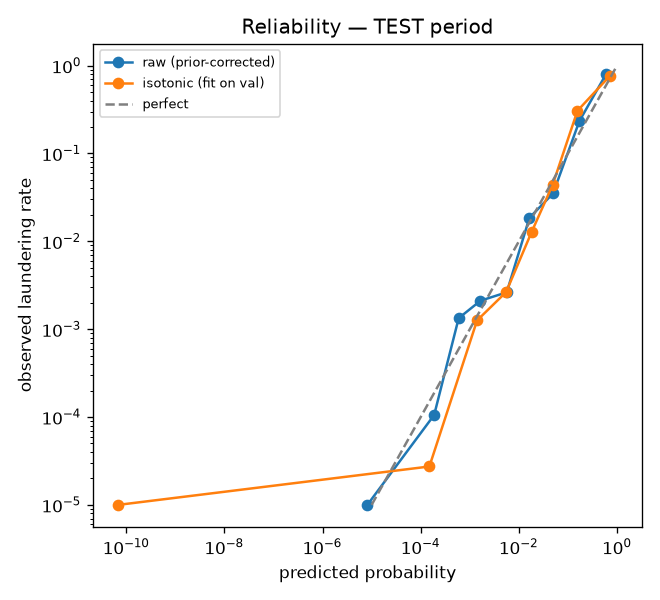
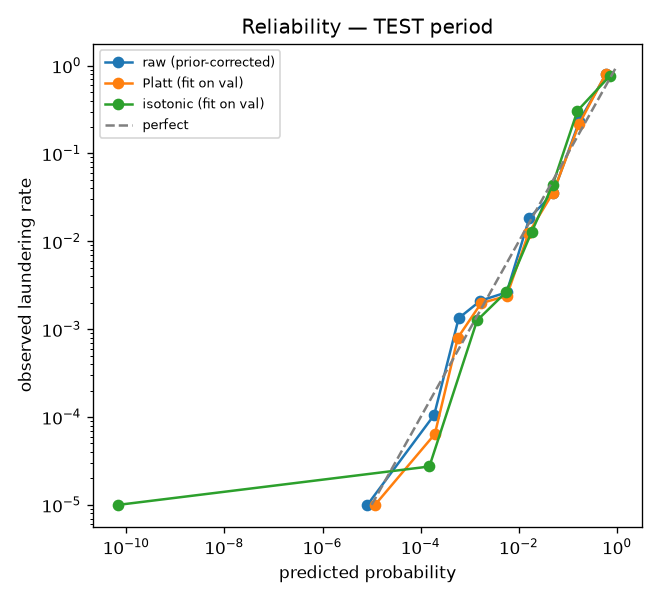
Step 7c: calibration comparison (raw vs Platt vs isotonic) with Brier, log-loss, ECE
Isotonic (fit on validation) is best on test: Brier 0.000683, ECE 0.000240
(raw 0.000700 / 0.000374, Platt 0.000704 / 0.000381). Platt slope 0.947 ->
raw model already close to calibrated. Report notes ECE's constant-predictor
pitfall. Other results unchanged.

diff --git a/src/aml/evaluate.py b/src/aml/evaluate.py
@@ -21,14 +21,15 @@ import pandas as pd
 import statsmodels.api as sm
 import xgboost as xgb
 from sklearn.isotonic import IsotonicRegression
-from sklearn.metrics import brier_score_loss, precision_recall_curve
+from sklearn.metrics import brier_score_loss, log_loss, precision_recall_curve
 
 from aml.baselines import LinearPrep
 from aml.config import PROJECT_ROOT, REPORTS_DIR, load_train_config
 from aml.data import CATEGORICAL, align_categories, load_split
 from aml.metrics import _top_k_mask, gains_curve, ranking_metrics
 from aml.sampling import correct_probability
-from aml.stats import delong_test, mcnemar_test, poisson_bootstrap, psi, wilson_interval
+from aml.stats import (expected_calibration_error, delong_test, mcnemar_test, platt_fit, poisson_bootstrap,
+                       psi, wilson_interval)
 from aml.tracking import setup_mlflow
 
 CFG = load_train_config()
@@ -146,12 +147,24 @@ def main():
 
     _tick("DeLong + McNemar")
     # 4) calibration: isotonic fitted on VALIDATION, applied to test
+    #    + Platt scaling (also fitted on validation) for comparison. Operating points below keep
+    #    using isotonic, which was chosen before this comparison was added.
     iso = IsotonicRegression(out_of_bounds="clip", y_min=0, y_max=1).fit(sv[CHAMP], yv)
     p_raw = st[CHAMP]; p_cal = iso.predict(p_raw)
+    platt, (a_coef, b_int) = platt_fit(sv[CHAMP], yv); p_platt = platt(p_raw)
+    const = np.full(len(yt), yv.mean())
+    cal_methods = {"Constant (validation base rate)": const, "Raw (prior-corrected)": p_raw,
+                   "Platt scaling (fit on val)": p_platt, "Isotonic (fit on val)": p_cal}
     R_["calibration"] = {"brier_raw": float(brier_score_loss(yt, p_raw)), "brier_isotonic": float(brier_score_loss(yt, p_cal)),
-                         "brier_constant_baseline": float(brier_score_loss(yt, np.full(len(yt), yv.mean()))),
+                         "brier_constant_baseline": float(brier_score_loss(yt, const)),
                          "mean_pred_raw": float(p_raw.mean()), "mean_pred_isotonic": float(p_cal.mean()),
-                         "actual_rate": float(yt.mean())}
+                         "actual_rate": float(yt.mean()),
+                         "platt_params": {"slope_on_logit": a_coef, "intercept": b_int},
+                         "methods": {k: {"brier": float(brier_score_loss(yt, v)),
+                                         "log_loss": float(log_loss(yt, np.clip(v, 1e-12, 1 - 1e-12))),
+                                         "ece": expected_calibration_error(yt, v), "mean_pred": float(v.mean())}
+                                     for k, v in cal_methods.items()}}
+    CAL_CURVES = {"raw (prior-corrected)": p_raw, "Platt (fit on val)": p_platt, "isotonic (fit on val)": p_cal}
 
     # 5) operating points
     #   a) best-F1 threshold chosen on validation (calibrated) -> applied to test
@@ -202,7 +215,7 @@ def main():
     R_["meta"]["runtime_seconds"] = round(time.time() - t_start, 1)
 
     _tick("patterns + tail")
-    _figures(yt, st, p_raw, p_cal, R_)
+    _figures(yt, st, CAL_CURVES, R_)
     _write(R_)
     setup_mlflow()
     with mlflow.start_run(run_name="final_evaluation_test"):
@@ -215,7 +228,7 @@ def main():
 
 
 # --------------------------------------------------------------------------- #
-def _figures(yt, st, p_raw, p_cal, R_):
+def _figures(yt, st, cal_curves, R_):
     FIG.mkdir(parents=True, exist_ok=True)
     fig, ax = plt.subplots(figsize=(6.5, 4.5))
     for m in [CHAMP, "Logistic regression", "Rules (ACH, amount)"]:
@@ -229,7 +242,7 @@ def _figures(yt, st, p_raw, p_cal, R_):
 
     edges = np.array([0, 1e-4, 3e-4, 1e-3, 3e-3, 1e-2, 3e-2, 0.1, 0.3, 1.0001])
     fig, ax = plt.subplots(figsize=(5.5, 5))
-    for p, lab in [(p_raw, "raw (prior-corrected)"), (p_cal, "isotonic (fit on val)")]:
+    for lab, p in cal_curves.items():
         b = np.digitize(p, edges) - 1; xs, ys = [], []
         for i in np.unique(b):
             m = b == i
@@ -301,6 +314,16 @@ def _write(R_):
           f"- Brier: raw {cal['brier_raw']:.6f} · isotonic (fit on validation) {cal['brier_isotonic']:.6f} · "
           f"constant-rate baseline {cal['brier_constant_baseline']:.6f}",
           f"- Mean predicted: raw {_rate(cal['mean_pred_raw'])}, isotonic {_rate(cal['mean_pred_isotonic'])}; actual {_rate(cal['actual_rate'])}",
+          "", "Calibration methods compared (all fitted on validation, scored on test; lower is better for "
+          "Brier, log-loss and ECE). ECE uses log-spaced probability bins because almost all probabilities are tiny.", "",
+          "| Method | Brier | Log-loss | ECE | Mean predicted |", "|---|---|---|---|---|",
+          *[f"| {k} | {v['brier']:.6f} | {v['log_loss']:.5f} | {v['ece']:.6f} | {_rate(v['mean_pred'])} |"
+            for k, v in cal["methods"].items()],
+          "", f"- Platt: calibrated logit = {cal['platt_params']['slope_on_logit']:.3f} × model logit "
+              f"{cal['platt_params']['intercept']:+.3f} (slope < 1 means the raw model is over-confident at the extremes).",
+          "- Caveat: a constant prediction can score a near-perfect ECE (it is right *on average*) while having no "
+          "ability to rank risk. Calibration metrics must be read together with Brier/log-loss and ranking metrics.",
+          "- Operating points (§4) use isotonic calibration, chosen before this comparison was added.",
           "- Figure: `figures/step7_reliability.png`", ""]
     f = R_["f1_operating_point"]
     L += ["## 4. Operating points", "",

diff --git a/src/aml/stats.py b/src/aml/stats.py
@@ -130,6 +130,34 @@ def psi(expected, actual, bins: int = 10, w_expected=None) -> float:
 
 
 # --------------------------------------------------------------------------- #
+# Calibration
+# --------------------------------------------------------------------------- #
+CAL_EDGES = np.array([0, 1e-4, 3e-4, 1e-3, 3e-3, 1e-2, 3e-2, 0.1, 0.3, 1.0000001])
+
+
+def expected_calibration_error(y, p, edges=CAL_EDGES) -> float:
+    """ECE = Σ_bins (share of transactions in bin) · |mean predicted − observed rate|.
+    Log-spaced bins, because almost all probabilities here are tiny (base rate ~0.1%)."""
+    y = np.asarray(y, dtype=np.float64); p = np.asarray(p, dtype=np.float64)
+    b = np.clip(np.digitize(p, edges) - 1, 0, len(edges) - 2)
+    n = np.bincount(b, minlength=len(edges) - 1)
+    sp = np.bincount(b, weights=p, minlength=len(edges) - 1)
+    sy = np.bincount(b, weights=y, minlength=len(edges) - 1)
+    m = n > 0
+    return float((np.abs(sp[m] - sy[m])).sum() / len(y))
+
+
+def platt_fit(p_val, y_val):
+    """Platt scaling on the log-odds of the model's probability: returns a function p -> calibrated p."""
+    from sklearn.linear_model import LogisticRegression
+    def logit(p):
+        p = np.clip(np.asarray(p, dtype=np.float64), 1e-12, 1 - 1e-12)
+        return np.log(p / (1 - p)).reshape(-1, 1)
+    lr = LogisticRegression(C=1e6, max_iter=1000).fit(logit(p_val), y_val)   # ~unpenalised
+    return lambda p: lr.predict_proba(logit(p))[:, 1], (float(lr.coef_[0, 0]), float(lr.intercept_[0]))
+
+
+# --------------------------------------------------------------------------- #
 def wilson_interval(k: int, n: int, ci: float = 0.95) -> tuple[float, float]:
     if n == 0:
         return (np.nan, np.nan)

diff --git a/tests/test_stats.py b/tests/test_stats.py
@@ -94,3 +94,23 @@ def test_score_file_names_are_windows_safe():
     from aml.extra_models import _slug
     s = _slug("Imbalance: SMOTE to 10%")
     assert s == "imbalance_smote_to_10" and not any(c in s for c in ':*?"<>|/\ ')
+
+
+def test_ece_small_when_calibrated_large_when_inflated():
+    from aml.stats import expected_calibration_error
+    rng = np.random.default_rng(0)
+    p = rng.beta(0.5, 400, 300_000)                      # tiny probabilities, like AML
+    y = (rng.random(len(p)) < p).astype(int)
+    good = expected_calibration_error(y, p)
+    bad = expected_calibration_error(y, np.clip(p * 10, 0, 1))   # 10x over-confident
+    assert good < 2e-4 and bad > 10 * good
+
+
+def test_platt_fixes_systematic_overconfidence():
+    from aml.stats import expected_calibration_error, platt_fit
+    rng = np.random.default_rng(1)
+    p = rng.beta(0.5, 400, 200_000); y = (rng.random(len(p)) < p).astype(int)
+    inflated = np.clip(p * 10, 0, 0.999)
+    f, _ = platt_fit(inflated[:100_000], y[:100_000])      # fit on "validation" half
+    assert expected_calibration_error(y[100_000:], f(inflated[100_000:])) < \
+           0.3 * expected_calibration_error(y[100_000:], inflated[100_000:])

diff --git a/reports/results.md b/reports/results.md
@@ -26,6 +26,19 @@
 
 - Brier: raw 0.000700 · isotonic (fit on validation) 0.000683 · constant-rate baseline 0.001107
 - Mean predicted: raw 0.099%, isotonic 0.121%; actual 0.111%
+
+Calibration methods compared (all fitted on validation, scored on test; lower is better for Brier, log-loss and ECE). ECE uses log-spaced probability bins because almost all probabilities are tiny.
+
+| Method | Brier | Log-loss | ECE | Mean predicted |
+|---|---|---|---|---|
+| Constant (validation base rate) | 0.001107 | 0.00865 | 0.000035 | 0.107% |
+| Raw (prior-corrected) | 0.000700 | 0.00375 | 0.000374 | 0.099% |
+| Platt scaling (fit on val) | 0.000704 | 0.00377 | 0.000381 | 0.111% |
+| Isotonic (fit on val) | 0.000683 | 0.00375 | 0.000240 | 0.121% |
+
+- Platt: calibrated logit = 0.947 × model logit -0.053 (slope < 1 means the raw model is over-confident at the extremes).
+- Caveat: a constant prediction can score a near-perfect ECE (it is right *on average*) while having no ability to rank risk. Calibration metrics must be read together with Brier/log-loss and ranking metrics.
+- Operating points (§4) use isotonic calibration, chosen before this comparison was added.
 - Figure: `figures/step7_reliability.png`
 
 ## 4. Operating points
@@ -91,4 +104,4 @@ Isotonic calibration is a step function, so nearby thresholds can give identical
 
 Age partly reflects 'time since the data starts' (only 10 days observed), so it is a known limitation. Removing it lowers PR-AUC but leaves recall at the 1% alert budget almost unchanged, so the headline business result does not rely on it.
 
-_Runtime: 202.6s._
+_Runtime: 135.3s._
